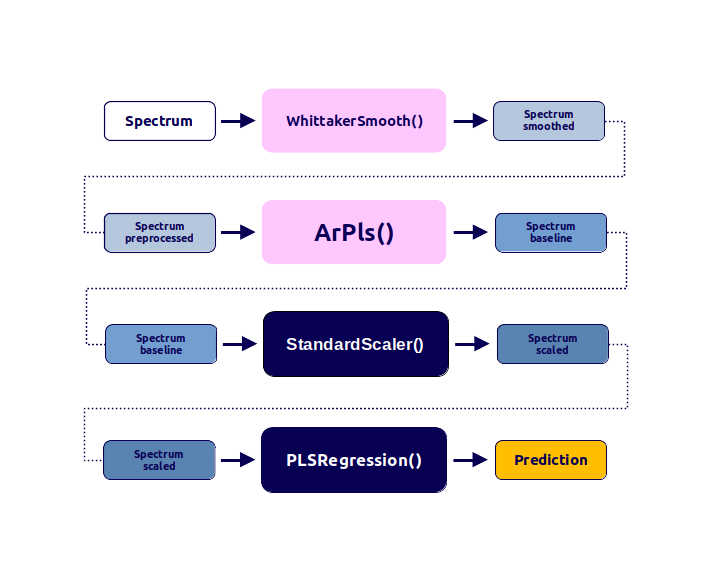
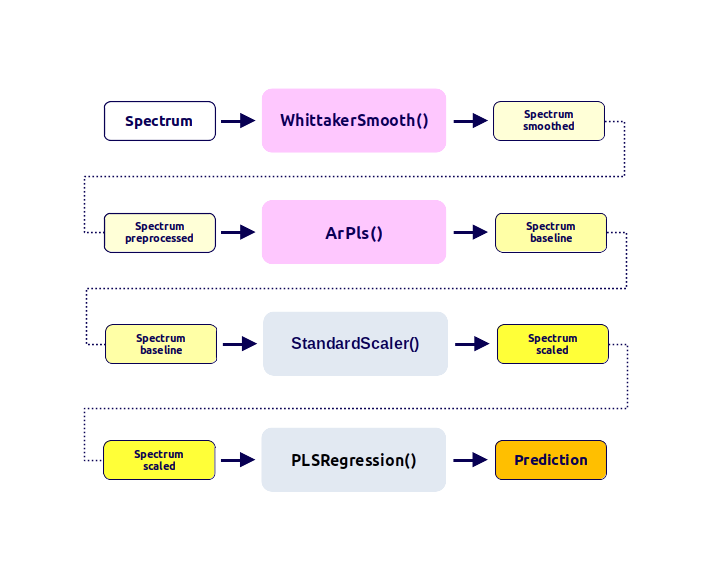
improve figures and fix typo

diff --git a/get-started/scikit_learn_integration.md b/get-started/scikit_learn_integration.md
@@ -114,7 +114,7 @@ Now the pipeline can be visualized, which will show the sequence of preprocessin
 Once the pipeline is created, it can be used to fit and transform the spectra and to make predictions:
 
 ```python
-spectra_transformed = pipeline.fit(spectra, reference).predict(spectra)
+prediction = pipeline.fit(spectra, reference).predict(spectra)
 ```
 
 The preprocessed spectra produced by the previous pipeline is shown in the figure below.
